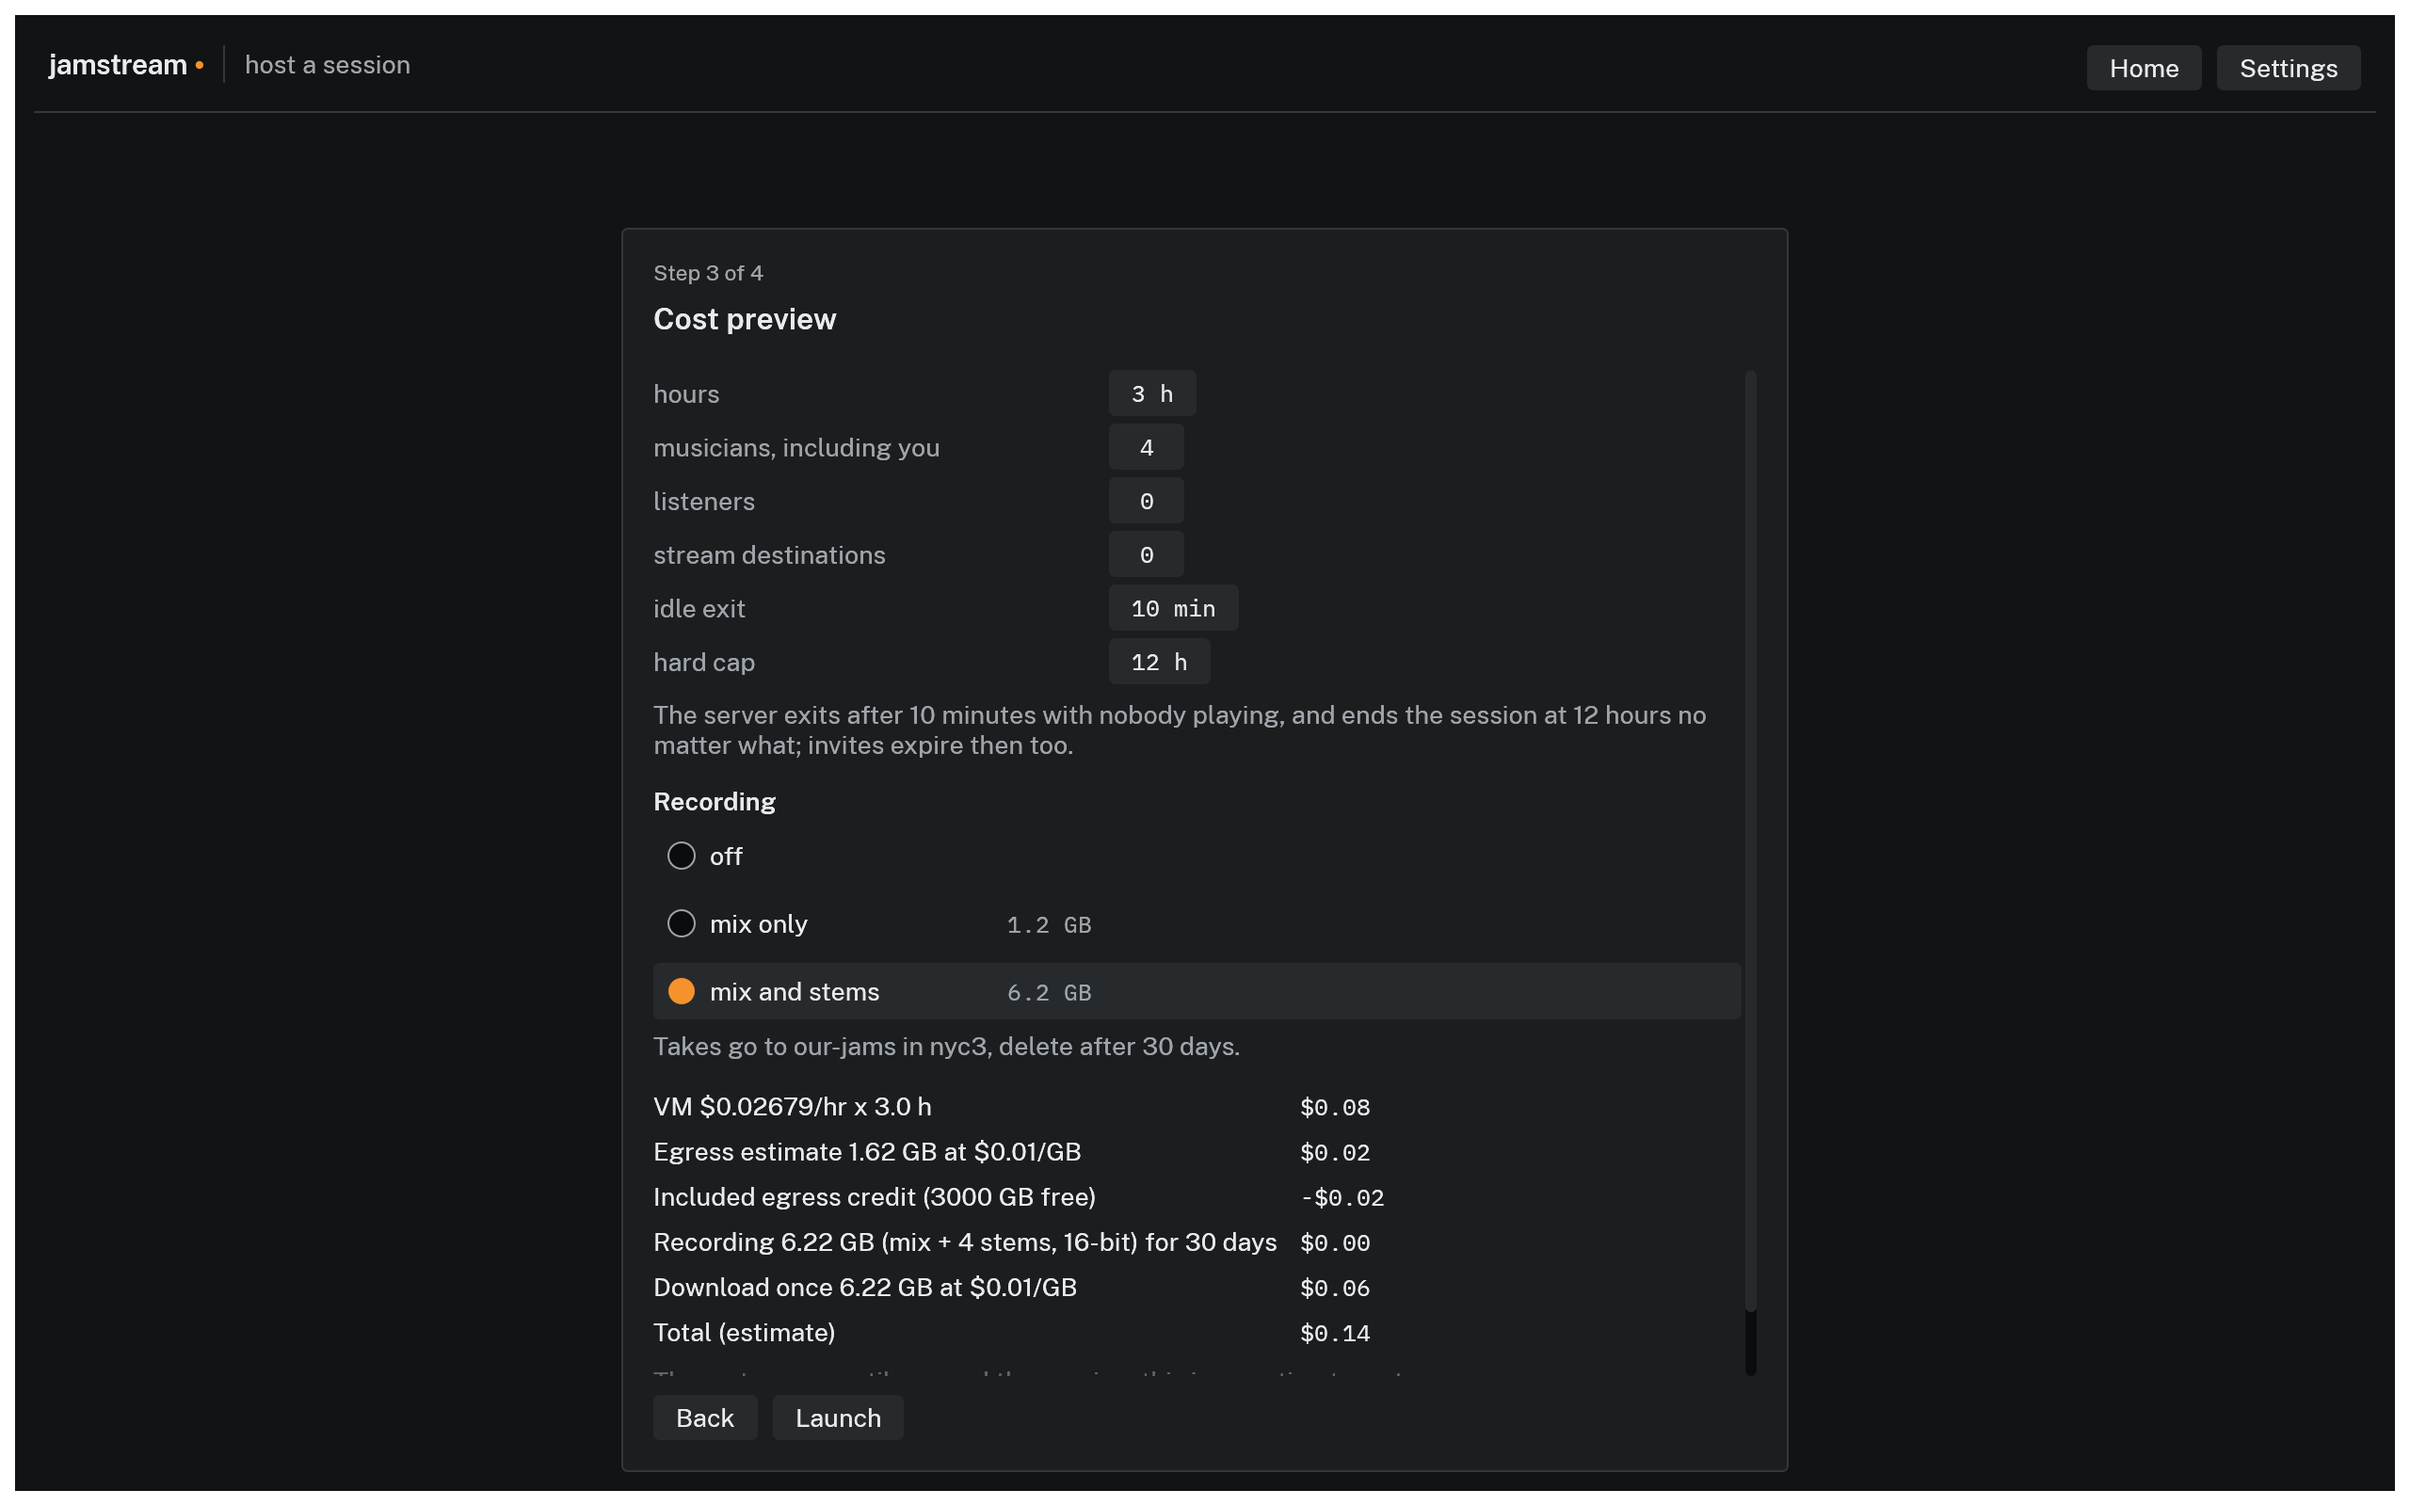
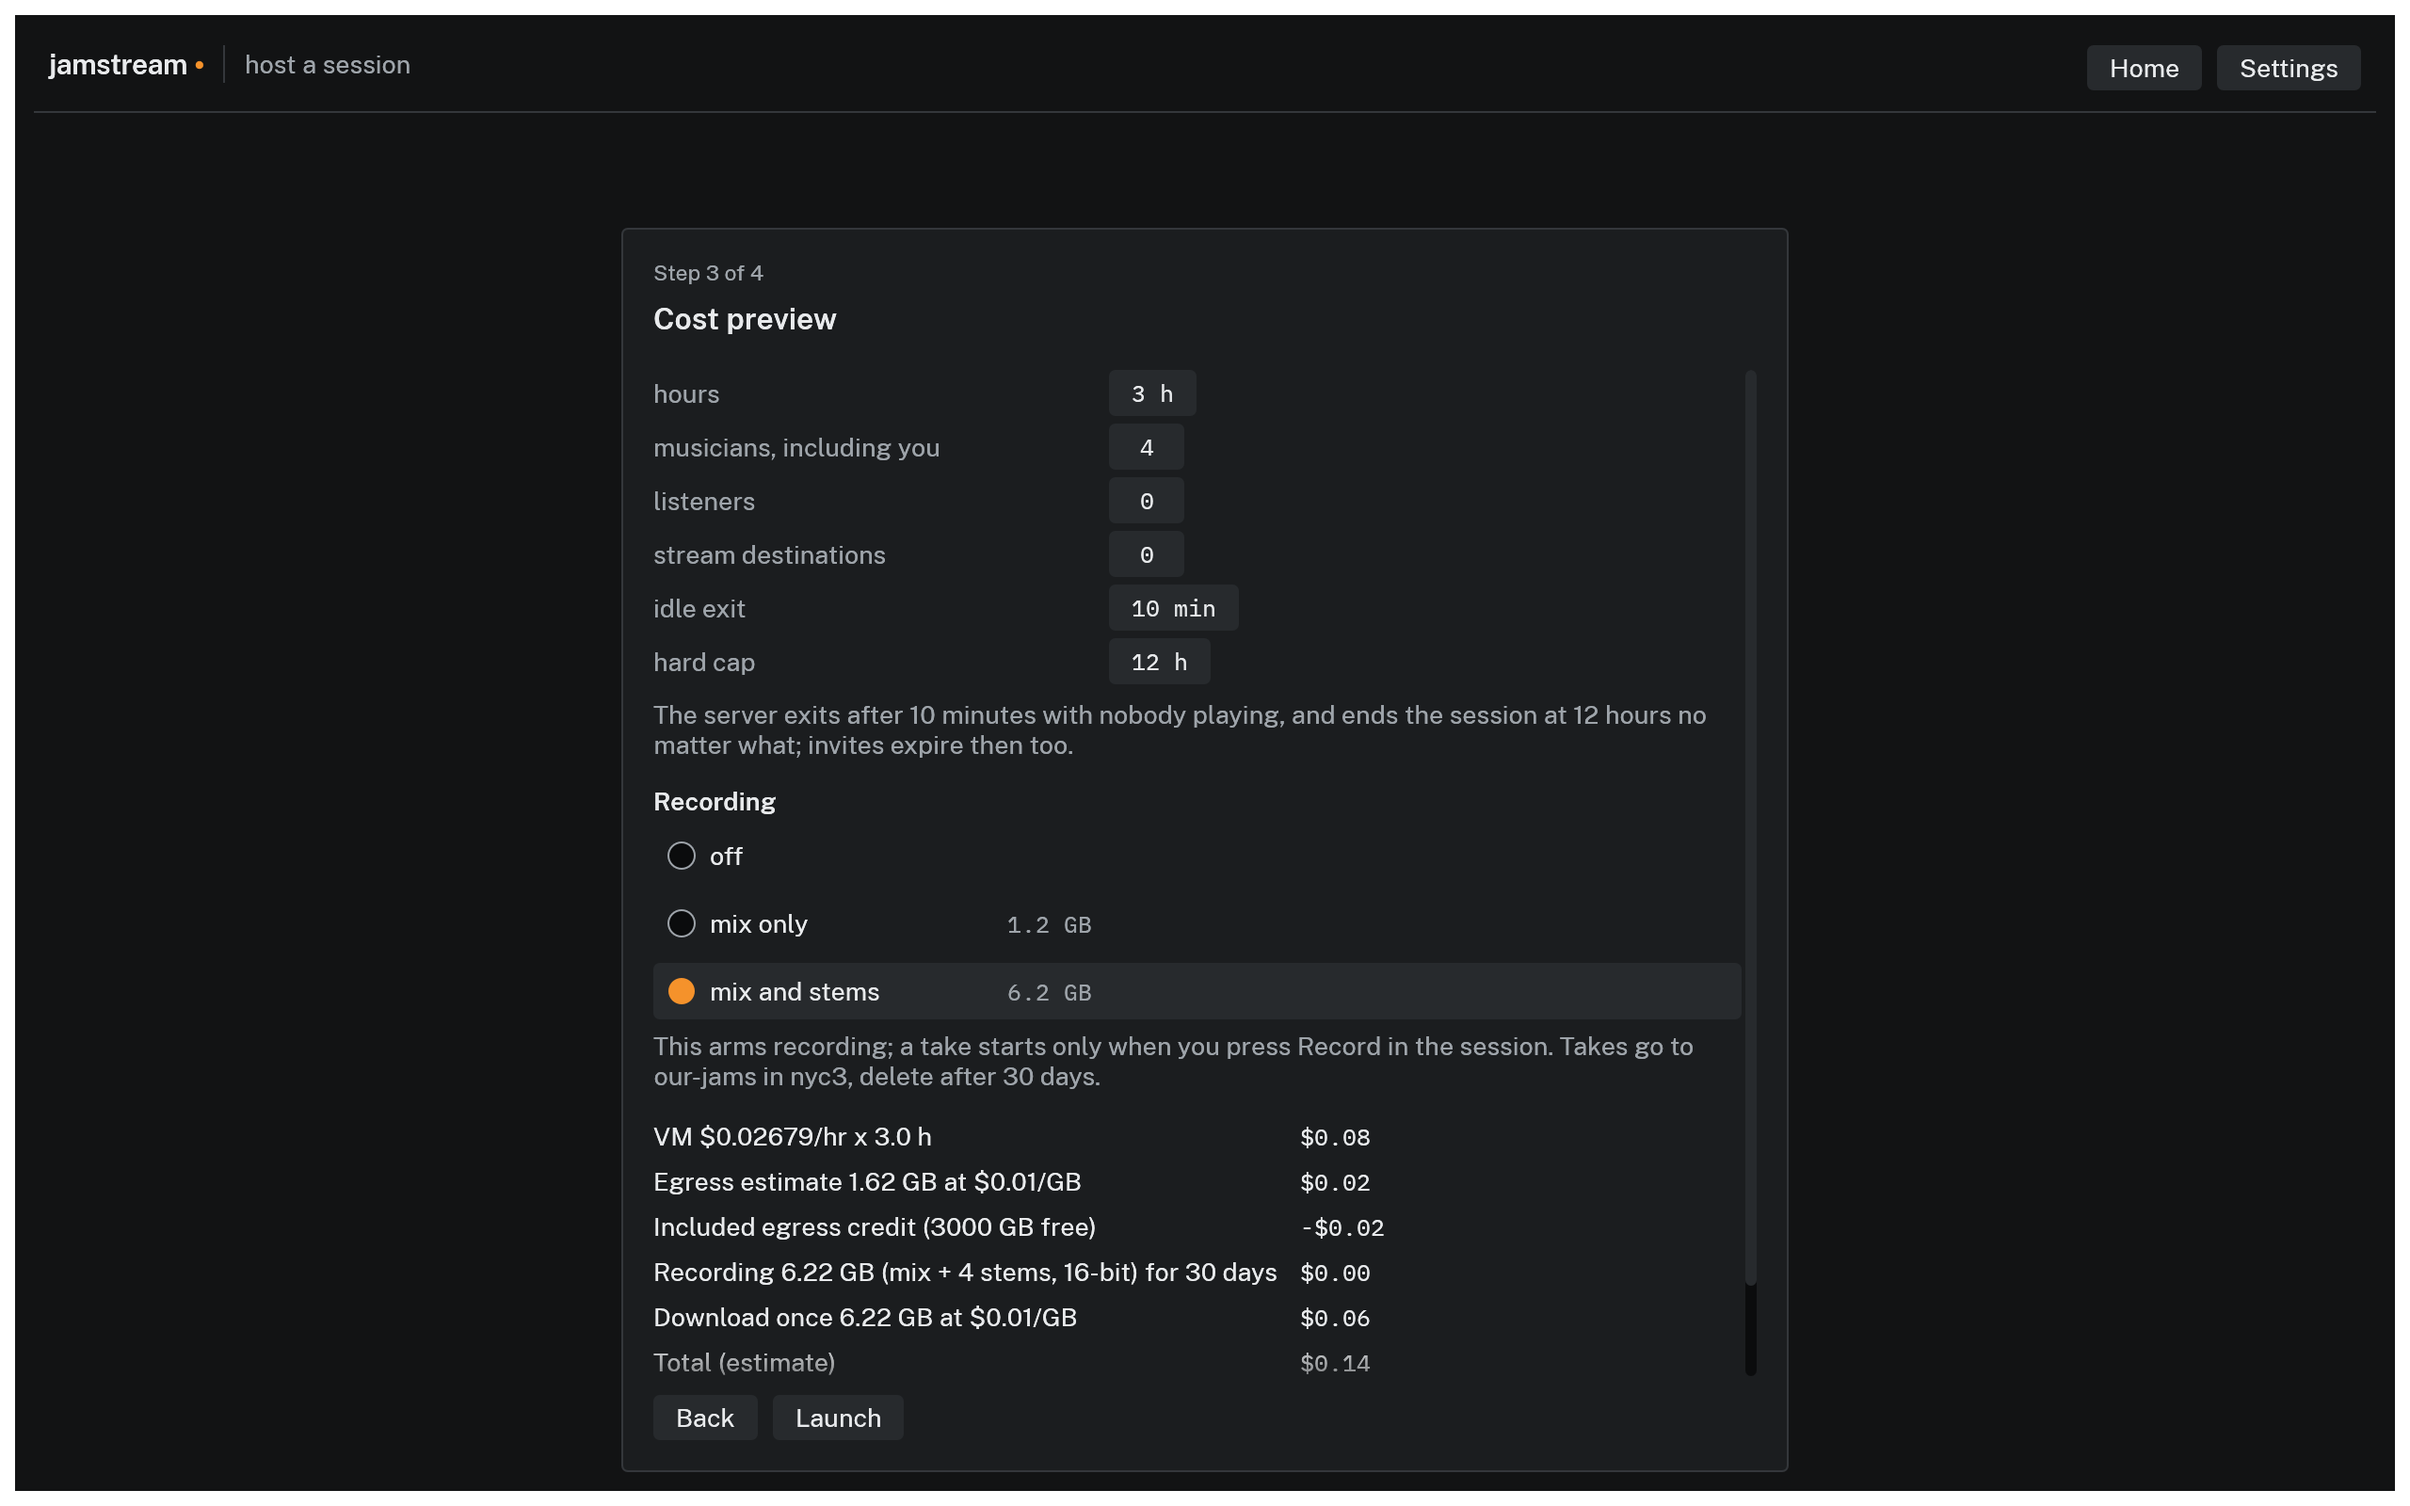
fix(client): say in the wizard that arming is not recording (#636)
* fix(client): say in the wizard that arming is not recording

The recording rows sit beside a size and a price, which reads as the
session being saved for that much. Each armed choice now says a take
starts only when the host presses Record, and the off row says the
same.

* docs: refresh the wizard recording screenshot

Changed region(s): [[0.25, 0.6875, 0.6875, 0.9062]]

diff --git a/crates/client/src/screens/host.rs b/crates/client/src/screens/host.rs
@@ -1845,6 +1845,12 @@ impl HostWizard {
         }
     }
 
+    /// Said beside every armed choice, because the price next to the rows reads
+    /// as "the session will be saved" and the session itself captures nothing
+    /// until the host presses Record.
+    const ARMS_RECORDING: &str =
+        "This arms recording; a take starts only when you press Record in the session.";
+
     /// The recording choice for this launch: off, the mix, or the mix and
     /// stems. Fixed for the session once it starts, which is why it is here and
     /// not in the session's own Record sheet.
@@ -1892,7 +1898,13 @@ impl HostWizard {
                 let dir = jamstream_cli::state::recordings_dir()
                     .map(|d| d.display().to_string())
                     .unwrap_or_else(|_| "this computer's recordings folder".to_owned());
-                ui.add(egui::Label::new(theme::muted(ui, format!("Takes land in {dir}."))).wrap());
+                ui.add(
+                    egui::Label::new(theme::muted(
+                        ui,
+                        format!("{} Takes land in {dir}.", Self::ARMS_RECORDING),
+                    ))
+                    .wrap(),
+                );
             }
             (None, true) => {
                 if let Some(bucket) = &self.recording_setup.bucket {
@@ -1900,7 +1912,8 @@ impl HostWizard {
                         egui::Label::new(theme::muted(
                             ui,
                             format!(
-                                "Takes go to {} in {}, {}.",
+                                "{} Takes go to {} in {}, {}.",
+                                Self::ARMS_RECORDING,
                                 bucket.name,
                                 bucket.region,
                                 self.recording_setup.retention.label().to_lowercase()
@@ -1913,7 +1926,8 @@ impl HostWizard {
             (None, false) => {
                 ui.label(theme::muted(
                     ui,
-                    "Nothing is captured unless you turn this on.",
+                    "Nothing is captured unless you turn this on, and a take starts only \
+                     when you press Record in the session.",
                 ));
             }
         }
